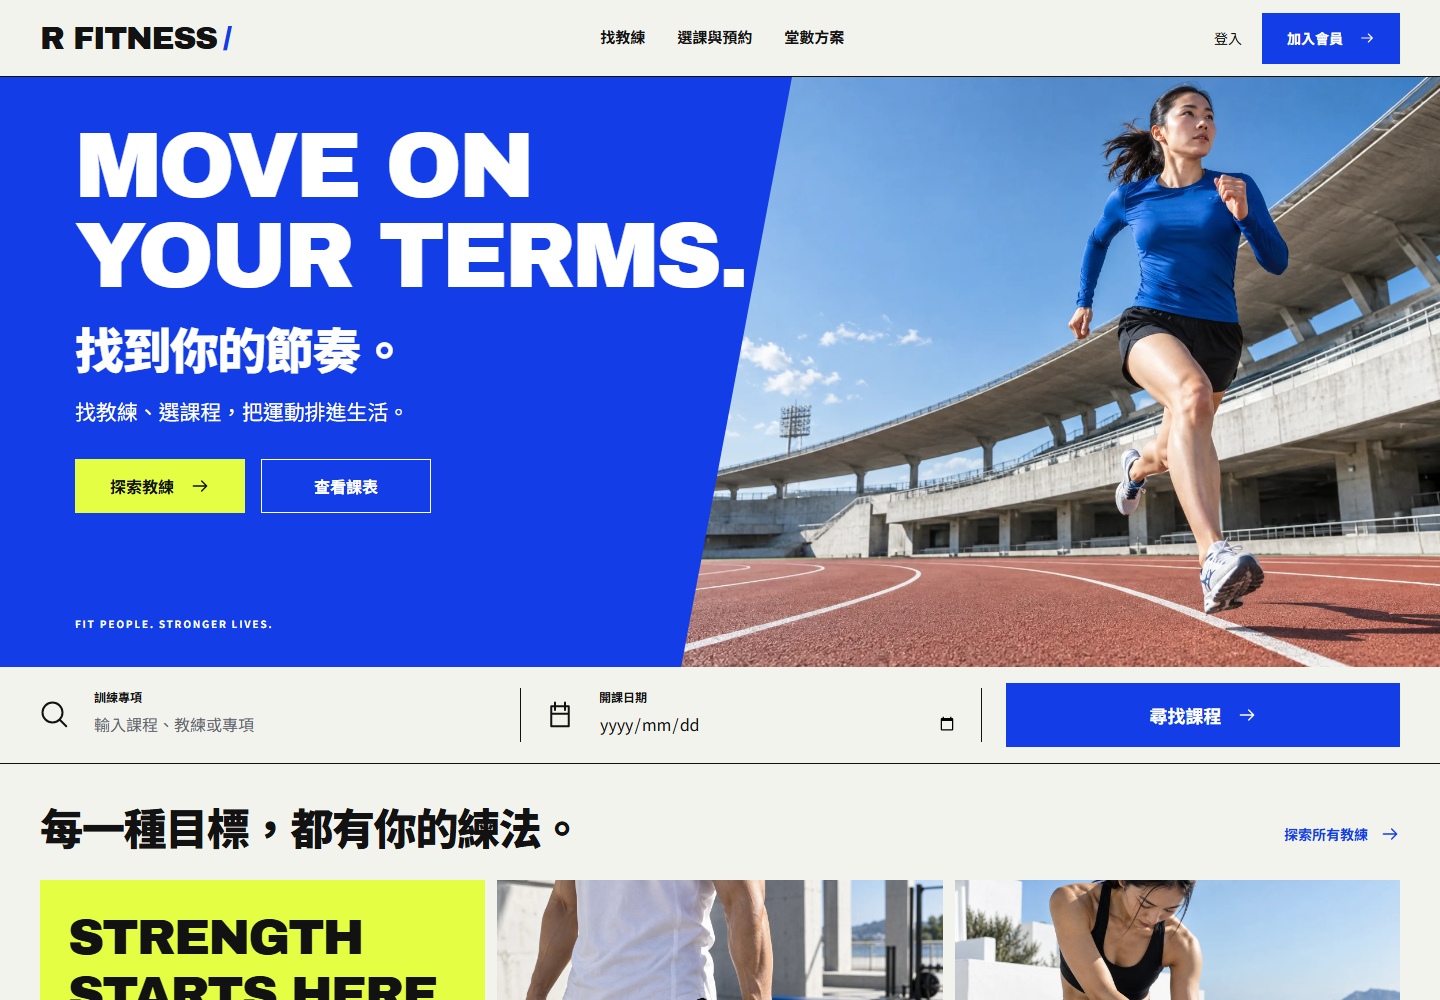
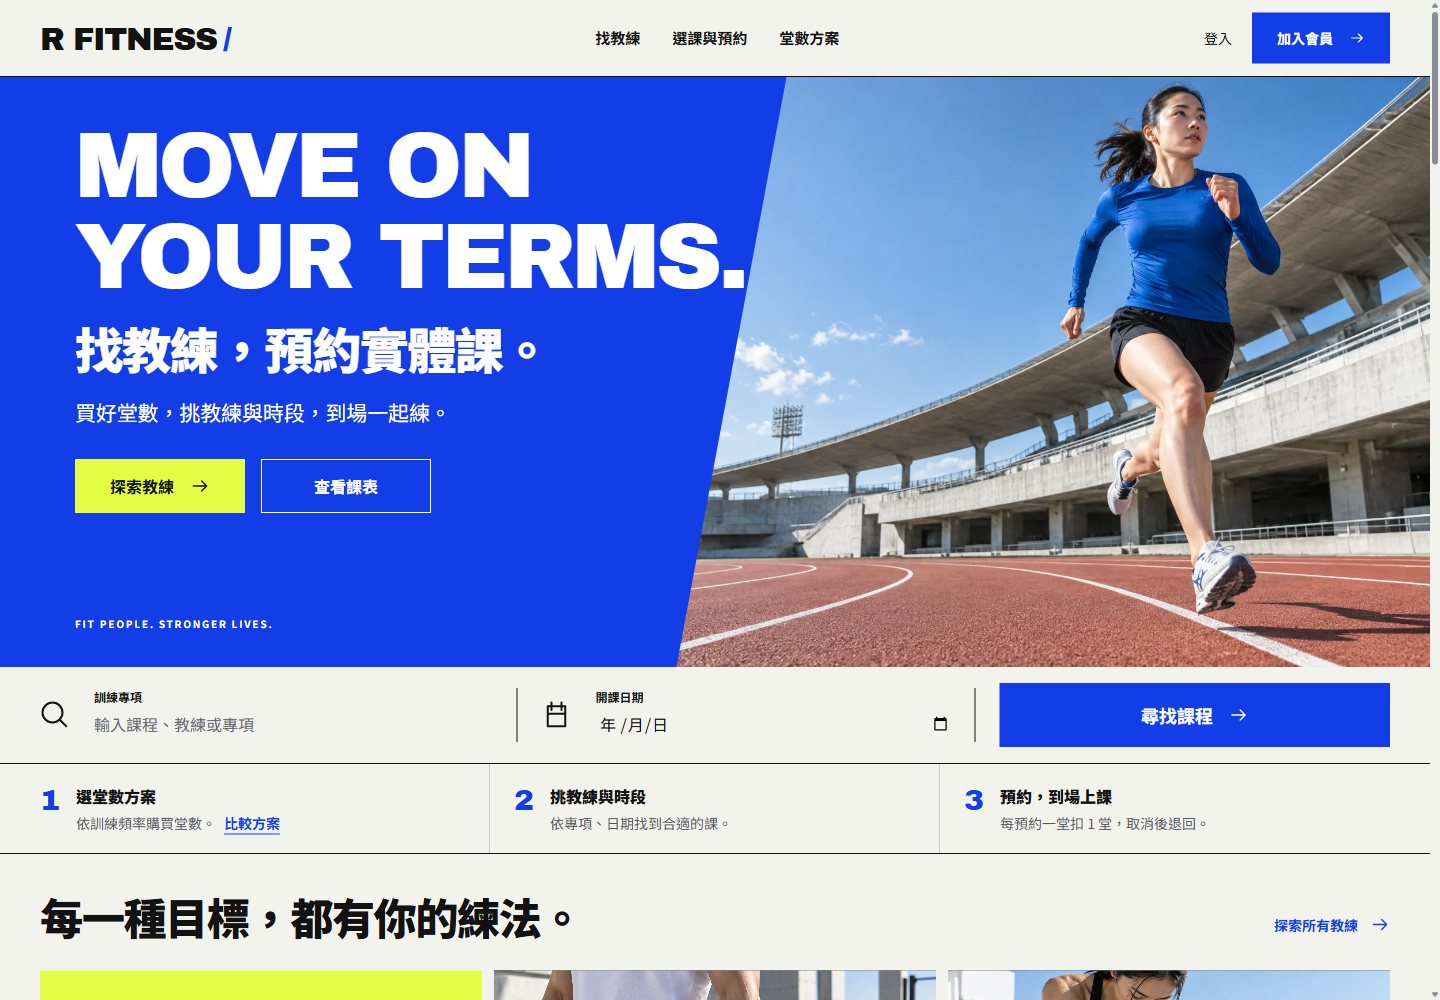
docs: refresh home screenshots and record 2026-10-02 redesign acceptance
- Re-capture home/coaches/schedule screenshots for the new hero copy,
  three-step strip and in-person 上課地點 button
- Add a 2026-10-02 acceptance entry documenting the merge, the course
  link migration to map links, the course-name fix, and auth checks

diff --git a/docs/demo-and-deployment.md b/docs/demo-and-deployment.md
@@ -10,6 +10,14 @@
 - 目前為免費方案，雲端資料庫將於 **2026-10-16** 到期；API 閒置 15 分鐘會休眠，首次請求可能需要約一分鐘。
 - 示範帳號見下表。所有購買均為模擬交易，不涉及付款。此環境資料供多人共用，請勿填入敏感資料。
 
+### 2026-10-02 改版驗收
+
+- 合併 PR #1（`f40dbe8`）與修正 `c74aec0`：後台設計系統抽取、首頁標題改為「找教練，預約實體課。」並加入三步驟說明、課程連結改為實體課「上課地點」。main 的後端 Contract Tests 與前端建置／E2E 均通過。
+- 課程為實體課：`meeting_url` 欄位沿用，語意改為上課地點地圖連結。透過正式 API 逐筆更新 6 位教練共 188 堂、以及另一位教練 28 堂課程，正式資料已無 `example.com/demo-class` 佔位連結。
+- 修復正式環境歷史課程名稱：原 `[object Object]・…` 已更正為技能名稱；示範會員課表與 7 位教練公開課程皆確認無殘留。
+- 未登入存取 `users/profile`、`users/courses`、`coach/courses`、`coach/revenue` 均回 401；偽造 token 亦回 401。
+- 首頁截圖已更新為本次改版後的版本。
+
 ### 2026-10-01 上線驗收
 
 - GitHub 提交 `71fa427` 的後端 Contract Tests、前端建置與 E2E 均通過。

diff --git a/README.md b/README.md
@@ -33,7 +33,7 @@
 
 ## 畫面預覽
 
-以下為本機網站於 2026-10-01 的實際截圖，使用展示資料。品牌圖片為生成素材，來源見 [圖片說明](frontend/public/assets/editorial/PROVENANCE.md)。
+以下為本機網站於 2026-10-02 的實際截圖，使用展示資料。品牌圖片為生成素材，來源見 [圖片說明](frontend/public/assets/editorial/PROVENANCE.md)。
 
 ![R Fitness 首頁](docs/screenshots/home-desktop.png)
 
